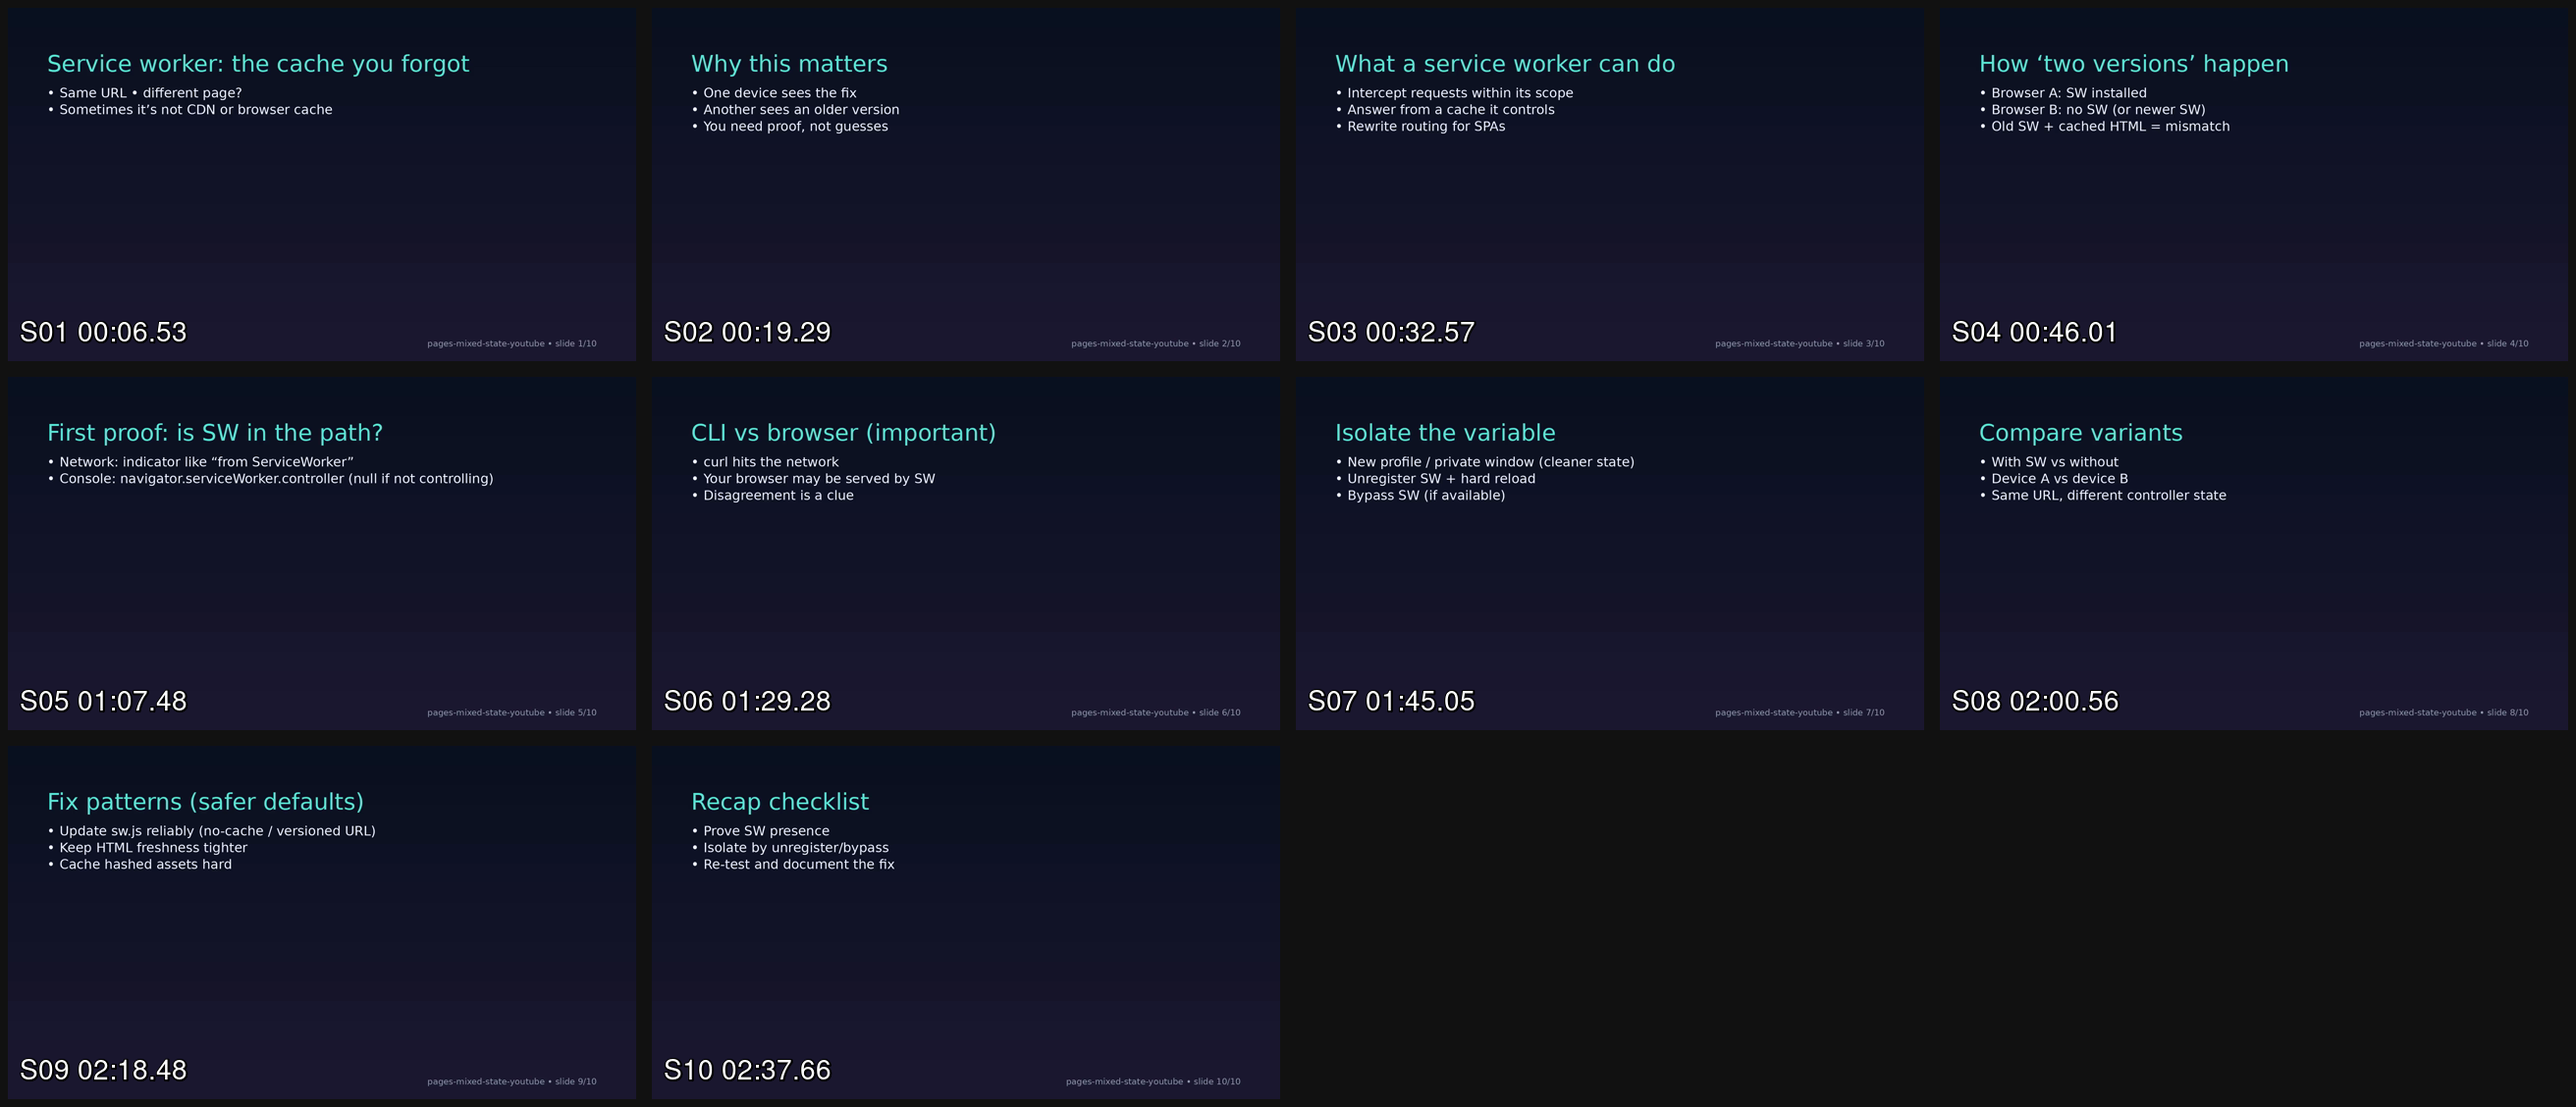
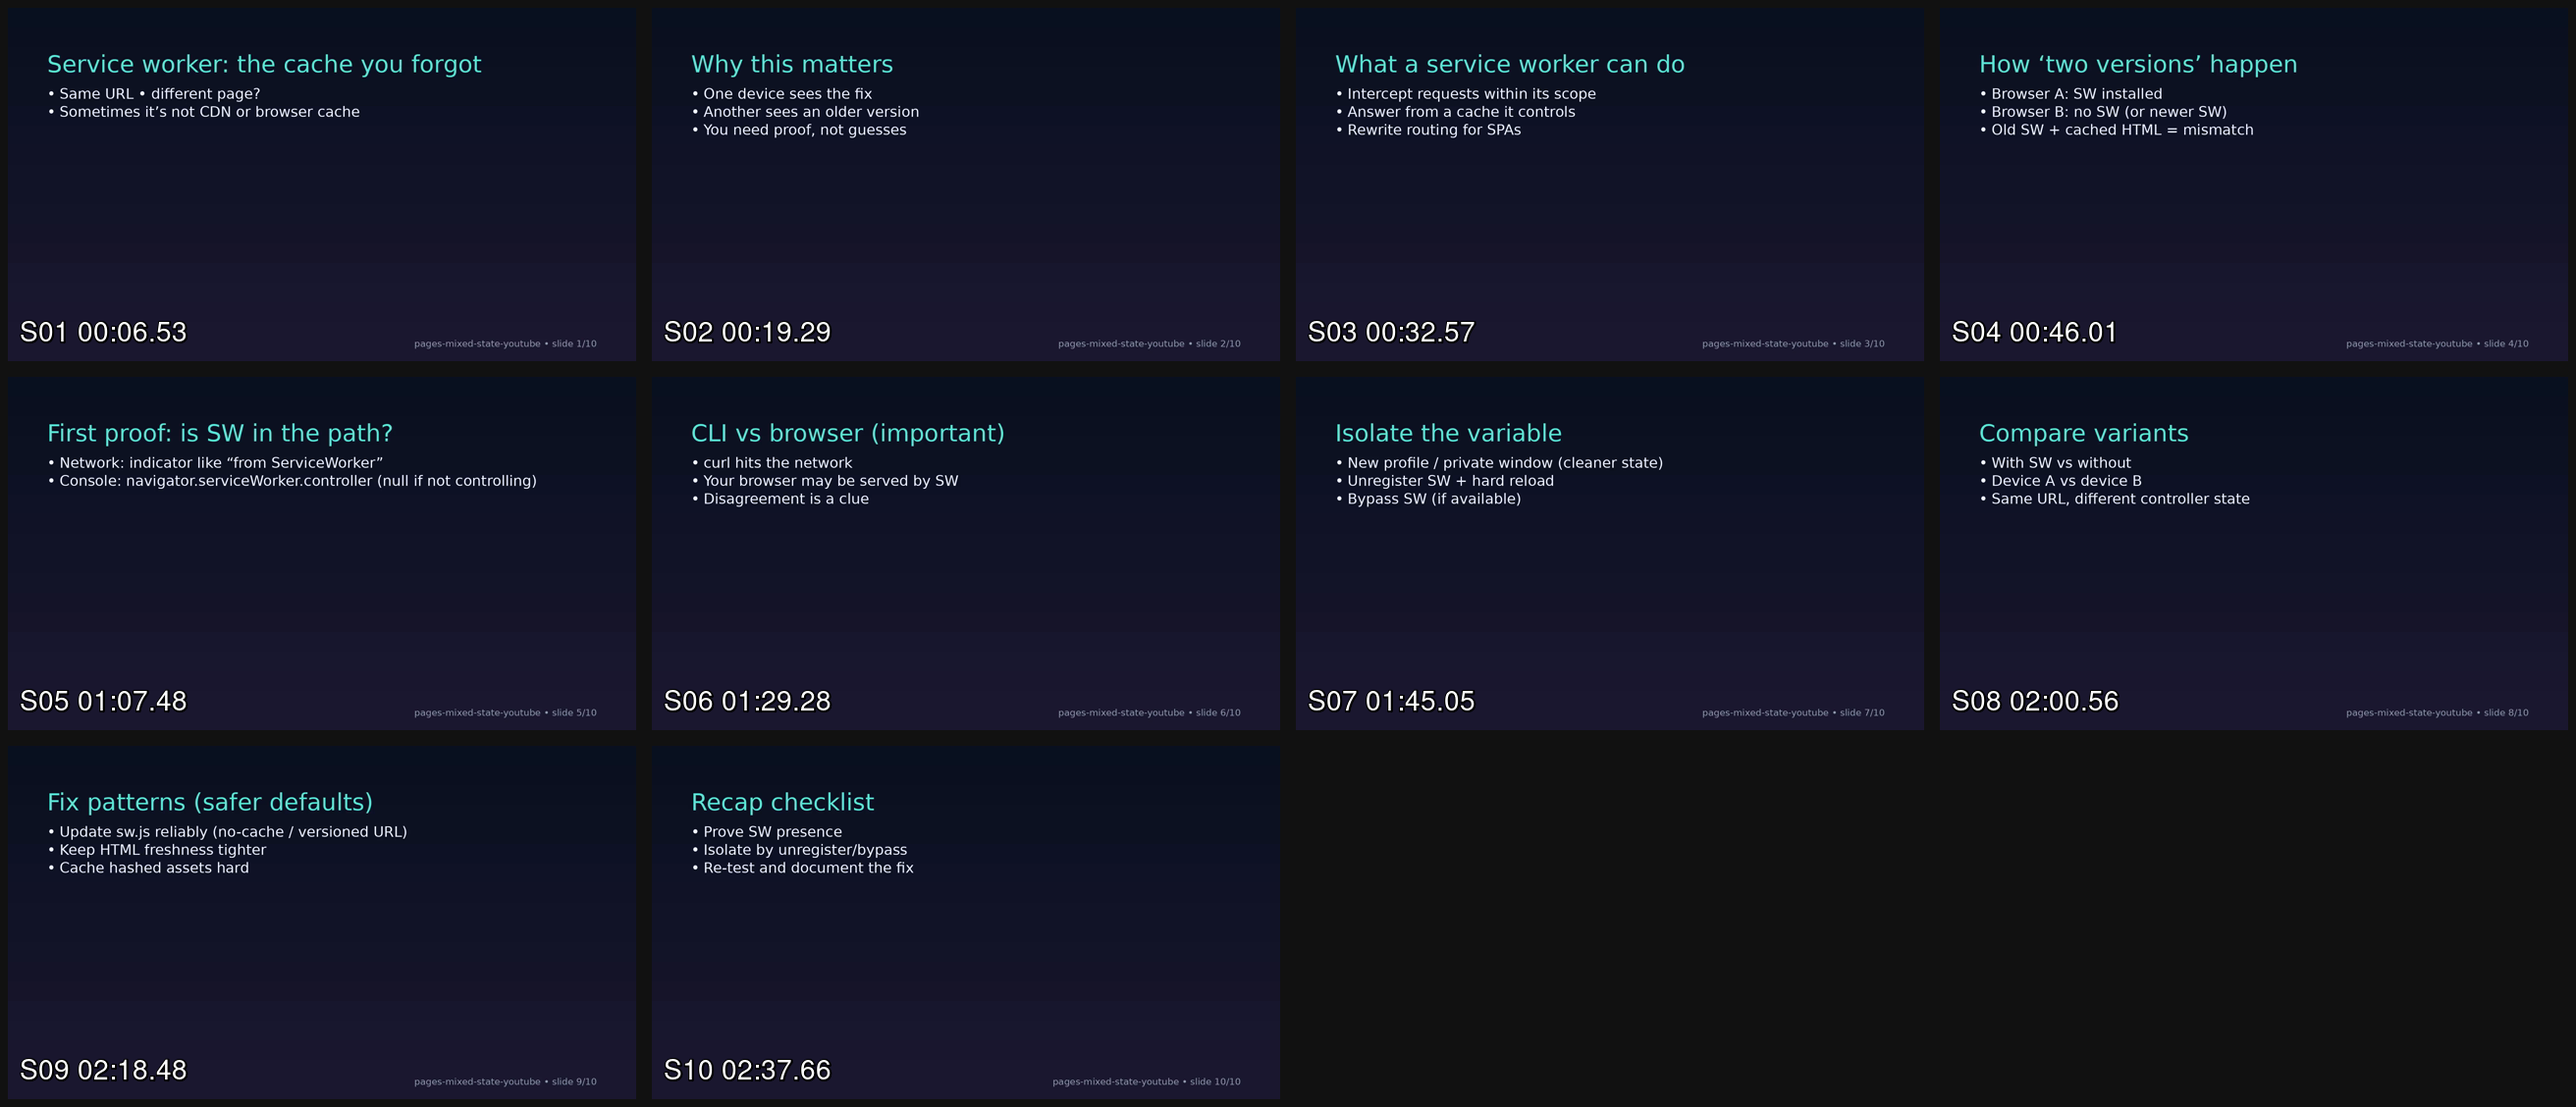
Video 7: refresh draft QC artifacts (v4)
Rebuilt draft loud MP4 after slide legibility rerender; updated contact sheet and captured a new local QC proof bundle under artifacts/video7/proof_draft_loud_v4/.

diff --git a/artifacts/video7/proof_draft_loud_v4/20260522T172533Z/README.md b/artifacts/video7/proof_draft_loud_v4/20260522T172533Z/README.md
@@ -1,0 +1,12 @@
+# Local QC proof bundle
+This directory holds reproducible local QC artifacts for `build/video7/video7_upload_candidate_draft_loud.mp4`. The MP4 itself is not committed; only lightweight logs and hashes are stored.
+Captured files:
+- README.md: this overview.
+- ffmpeg_i.txt: stderr from `ffmpeg -i` (no output written).
+- loudnorm_pass_log.txt: stderr from the loudnorm analysis pass.
+- loudnorm_analysis.json: JSON snapshot parsed from loudnorm stderr (last object).
+- SHA256SUMS.txt: sha256 of the input MP4 plus the files above.
+
+## Loudness snapshot
+Analysis targets: I=-15, TP=-1.5, LRA=11 (analysis-only, no output media).
+Parsed loudnorm values are in `loudnorm_analysis.json`; full stderr is in `loudnorm_pass_log.txt`.
